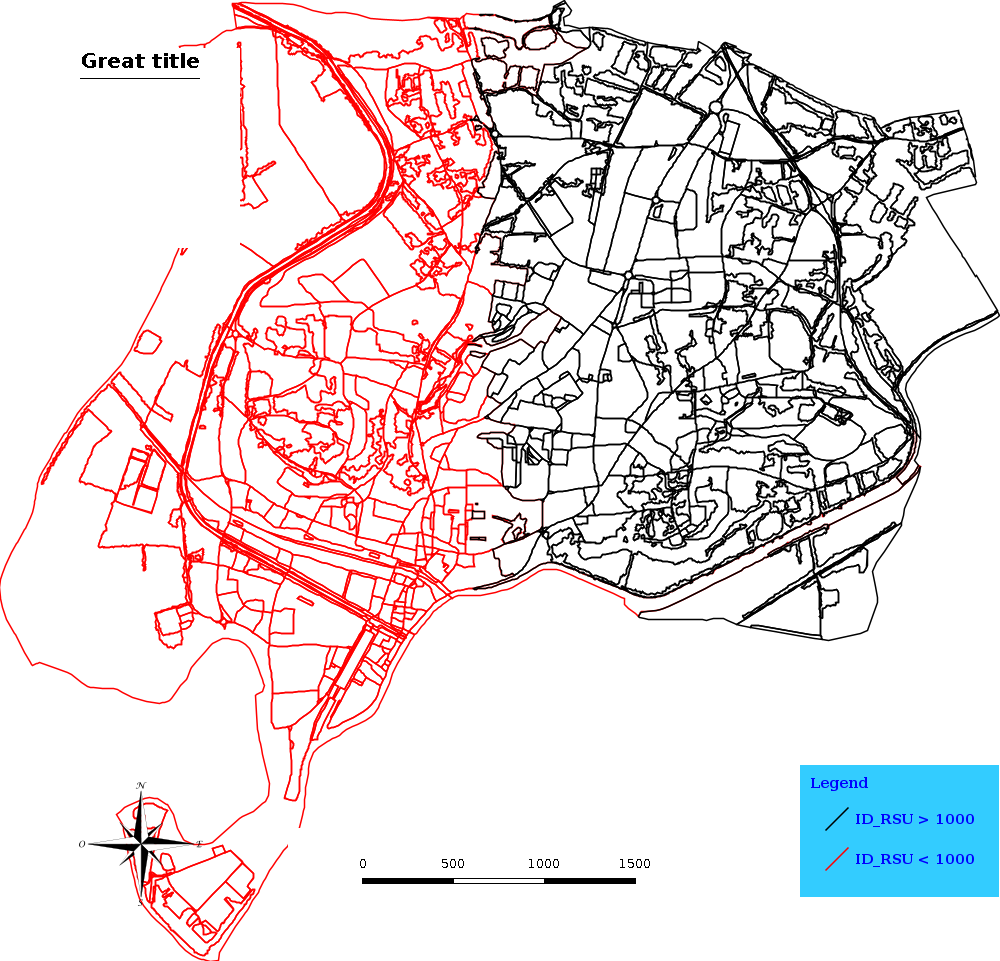
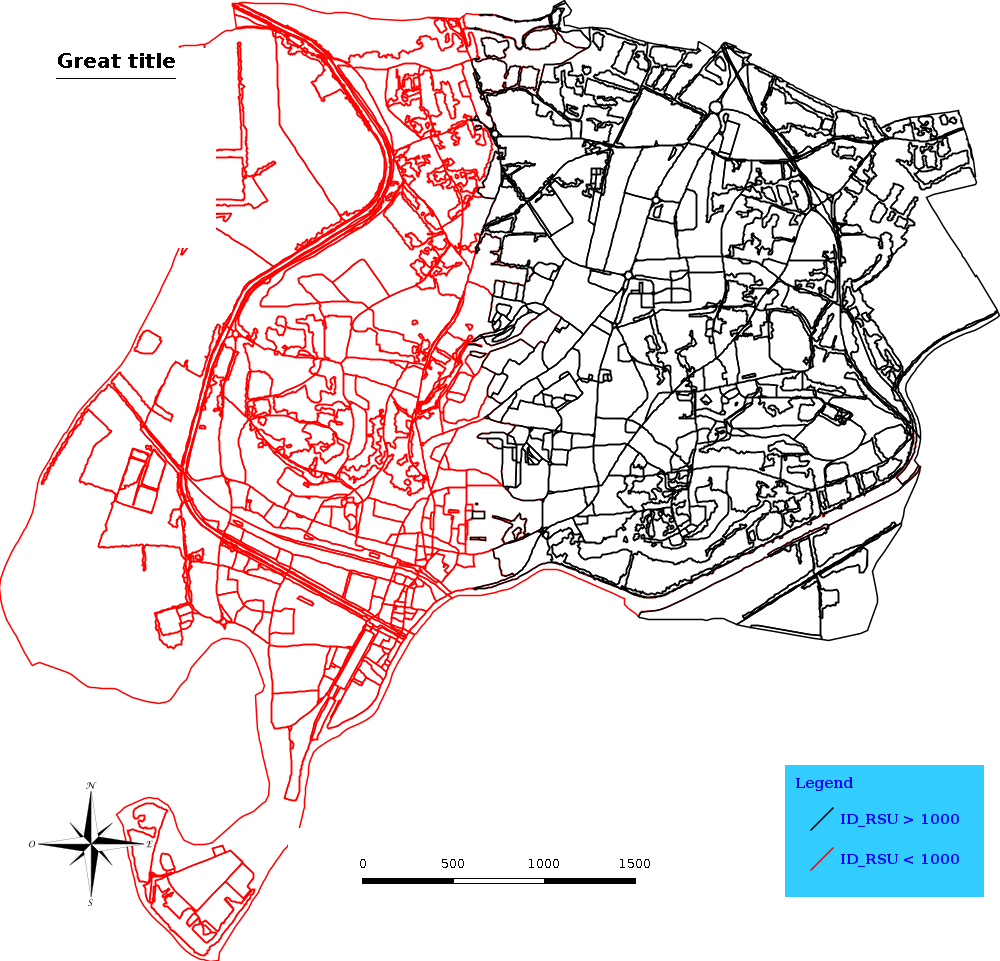
Add transparency to the different decorations

diff --git a/src/main/java/org/legend/utils/LegendUtils.java b/src/main/java/org/legend/utils/LegendUtils.java
@@ -26,6 +26,7 @@ import org.geotools.renderer.lite.RendererUtilities;
 import org.geotools.styling.*;
 import org.geotools.styling.Stroke;
 import org.opengis.filter.FilterFactory2;
+import org.opengis.filter.expression.Expression;
 import org.opengis.util.InternationalString;
 
 import java.awt.Font;
@@ -152,15 +153,37 @@ public class LegendUtils {
         if(ftStyles[0].rules().get(0).toString().contains("if_then_else")) {
             StyleFactory styleFactory = CommonFactoryFinder.getStyleFactory();
             if (ftStyles[0].rules().get(0).symbolizers().get(0) instanceof LineSymbolizer) {
-                String s = String.valueOf(((LineSymbolizer) ftStyles[0].rules().get(0).symbolizers().get(0)).getStroke().getColor());
-                String[] colors = StringUtils.substringsBetween(s, "#", "]");
-                String variable = Arrays.toString(StringUtils.substringsBetween(s, "([", "],"));
-                String operator = StringUtils.substringBetween(s, "[", "(");
-                String variable2 = variable.replace(operator, "").replace("[([", "").replace("]", "");
-                String value = StringUtils.substringBetween(s, ", [", "])],");
+                System.out.println("ftStyles[0].rules().get(0).symbolizers().get(0) : " + ftStyles[0].rules().get(0).symbolizers().get(0));
+                Expression getWidth = ((LineSymbolizer) ftStyles[0].rules().get(0).symbolizers().get(0)).getStroke().getWidth();
+                String getColor = String.valueOf(((LineSymbolizer) ftStyles[0].rules().get(0).symbolizers().get(0)).getStroke().getColor());
+                String operator = null;
+                String variable2 = null;
+                String value = null;
+                List<String> widthList = null;
+                if(getWidth.toString().contains("if_then_else")){
+                    String width1 = StringUtils.substringBetween(String.valueOf(getWidth), ")], [", "], [");
+                    String width2 = StringUtils.substringsBetween(String.valueOf(getWidth), "], [", "])")[1];
+                    width2 = width2.replace(width1,"").replace("], [", "");
+                    widthList = new ArrayList<>();
+                    widthList.add(width1);
+                    widthList.add(width2);
+                    String variable = Arrays.toString(StringUtils.substringsBetween(String.valueOf(getWidth), "([", "],"));
+                    operator = StringUtils.substringBetween(String.valueOf(getWidth), "[", "(");
+                    variable2 = variable.replace(operator, "").replace("[([", "").replace("]", "");
+                    value = StringUtils.substringBetween(String.valueOf(getWidth), ", [", "])],");
+                }
+                String[] colors = null;
+                if(getColor.contains("if_then_else")){
+                    colors = StringUtils.substringsBetween(getColor, "#", "]");
+                    String variable = Arrays.toString(StringUtils.substringsBetween(getColor, "([", "],"));
+                    operator = StringUtils.substringBetween(getColor, "[", "(");
+                    variable2 = variable.replace(operator, "").replace("[([", "").replace("]", "");
+                    value = StringUtils.substringBetween(getColor, ", [", "])],");
+                }
                 FilterFactory2 filterFactory2 = CommonFactoryFinder.getFilterFactory2();
                 float LINE_WIDTH = 1.0f;
                 List<String> operatorList = new ArrayList<>();
+                assert operator != null;
                 if (operator.equals("greaterThan")) {
                     operatorList.add(">");
                     operatorList.add("<");
@@ -171,7 +194,20 @@ public class LegendUtils {
                 }
                 for (int i = 0; i < 2; i++) {
                     Rule rule = styleFactory.createRule();
-                    Stroke stroke = styleFactory.createStroke(filterFactory2.literal("#" + colors[i]), filterFactory2.literal(LINE_WIDTH));
+                    Stroke stroke;
+                    if(getColor.contains("if_then_else")) {
+                        assert colors != null;
+                        stroke = styleFactory.createStroke(filterFactory2.literal("#" + colors[i]), filterFactory2.literal(LINE_WIDTH));
+                    }
+                    else{
+                        if(getWidth.toString().contains("if_then_else")){
+                            assert widthList != null;
+                            stroke = styleFactory.createStroke(filterFactory2.literal(getColor), filterFactory2.literal(widthList.get(i)));
+                        }
+                        else {
+                            stroke = styleFactory.createStroke(filterFactory2.literal(getColor), filterFactory2.literal(LINE_WIDTH));
+                        }
+                    }
                     Symbolizer symbolizer = styleFactory.createLineSymbolizer(stroke, null);
                     rule.symbolizers().add(symbolizer);
                     rule.setName(variable2 + " " + operatorList.get(i) + " " + value);

diff --git a/src/main/java/org/legend/model/Title.java b/src/main/java/org/legend/model/Title.java
@@ -27,16 +27,18 @@ public class Title {
     }
 
     public BufferedImage paintTitle(){
-        BufferedImage titleBufferedImage = new BufferedImage(200, 200, BufferedImage.TYPE_INT_RGB);
+        BufferedImage titleBufferedImage = new BufferedImage(200, 200, BufferedImage.TYPE_INT_ARGB);
         Graphics2D graph2d = titleBufferedImage.createGraphics();
-        graph2d.setColor(Color.WHITE);
+        graph2d.setComposite(AlphaComposite.Clear);
         graph2d.fillRect(0, 0, 200, 200);
+        graph2d.setComposite(AlphaComposite.Src);
         graph2d.setPaint(titleColor);
         graph2d.setFont(new Font(titleFontName, titleFont, titleSize));
+        graph2d.setRenderingHint(RenderingHints.KEY_ANTIALIASING, RenderingHints.VALUE_ANTIALIAS_ON);
         int titleWidth = graph2d.getFontMetrics().stringWidth(title);
-        graph2d.drawString(title, titleBufferedImage.getWidth()/2 - titleWidth/2 , 20);
+        graph2d.drawString(title, titleBufferedImage.getWidth()/3 - titleWidth/2 , 20);
         if(underlined){
-            graph2d.draw( new Line2D.Double( (double) titleBufferedImage.getWidth()/2 - (double) titleWidth/2, 30, (double) titleBufferedImage.getWidth()/2 + (double) titleWidth/2, 30 ) );
+            graph2d.draw( new Line2D.Double( (double) titleBufferedImage.getWidth()/3 - (double) titleWidth/2, 30, (double) titleBufferedImage.getWidth()/3 + (double) titleWidth/2, 30 ) );
         }
         return titleBufferedImage;
     }
@@ -51,7 +53,7 @@ public class Title {
                 break;
             case "bottomLeft":
                 positionY = imgHeight - imgHeight/5;
-                positionX = imgWidth/5 - scaleBufferedImage.getWidth()/2;
+                positionX = imgWidth/60;
                 break;
             case "bottomRight":
                 positionY = imgHeight - imgHeight/5;
@@ -63,7 +65,7 @@ public class Title {
                 break;
             case "topLeft":
                 positionY = imgHeight/20;
-                positionX = imgWidth/25;
+                positionX = imgWidth/60;
                 break;
             case "topRight":
                 positionY = imgHeight/20;

diff --git a/src/test/java/org/legend/imageBuilder/BufferedImageLegendGraphicBuilderTest.java b/src/test/java/org/legend/imageBuilder/BufferedImageLegendGraphicBuilderTest.java
@@ -224,7 +224,8 @@ public class BufferedImageLegendGraphicBuilderTest extends TestCase {
 
         /**** to print the legend in a png file : ***/
         //FeatureLayer layer = LayerUtils.buildLayer("/home/adrien/data/geoserver/bdtopo_v2_Redon/building.geojson","data/sld/pop_grid_intervals.sld");
-        FeatureLayer layer = LayerUtils.buildLayer("/home/adrien/data/geoserver/bdtopo_v2_Redon/rsu_indicators.geojson","data/sld/rsu_indicators_filter_color_byid_EDIT.sld");
+        //FeatureLayer layer = LayerUtils.buildLayer("/home/adrien/data/geoserver/bdtopo_v2_Redon/rsu_indicators.geojson","data/sld/rsu_indicators_filter_color_byid.sld");
+        FeatureLayer layer = LayerUtils.buildLayer("/home/adrien/data/geoserver/bdtopo_v2_Redon/rsu_indicators.geojson","data/sld/rsu_indicators_linesize_byid.sld");
         List<FeatureLayer> layerList = new ArrayList<>();
         layerList.add(layer);
 
@@ -283,7 +284,7 @@ public class BufferedImageLegendGraphicBuilderTest extends TestCase {
         // paint the title
         Title title = new Title("Great title", Color.black, Font.BOLD, 20,"default", true);
         BufferedImage titleBufferedImage = title.paintTitle();
-        title.setPosition("topLeft", image, titleBufferedImage);
+        title.setPosition("0:10", image, titleBufferedImage);
         g.drawImage(titleBufferedImage, title.getPositionX(), title.getPositionY(), null);
 
         // Generate the compass image
@@ -303,7 +304,8 @@ public class BufferedImageLegendGraphicBuilderTest extends TestCase {
         // Save as new image
         //ImageIO.write(combined, "PNG", new File("data/legend/building_urban_typo_mapAndlegend.png"));
         //ImageIO.write(combined, "PNG", new File("data/legend/building_mapAndlegend.png"));
-        ImageIO.write(combined, "PNG", new File("data/legend/rsu_indicators_mapAndlegend.png"));
+        //ImageIO.write(combined, "PNG", new File("data/legend/rsu_indicators_mapAndlegend.png"));
+        ImageIO.write(combined, "PNG", new File("data/legend/rsu_indicators_lineSize_mapAndlegend.png"));
     }
 
 }

diff --git a/src/main/java/org/legend/model/Scale.java b/src/main/java/org/legend/model/Scale.java
@@ -49,13 +49,12 @@ public class Scale {
     public BufferedImage paintMapScale(String bars){
         double pixelScaleFor500m = 500 * imageWidth / worldWidth;
         double pixelScaleFor1000m = 1000 * imageWidth / worldWidth;
-        BufferedImage scaleBufferedImage = new BufferedImage(425, 400, BufferedImage.TYPE_INT_RGB);
+        BufferedImage scaleBufferedImage = new BufferedImage(425, 400, BufferedImage.TYPE_INT_ARGB);
         Graphics2D graph2d = scaleBufferedImage.createGraphics();
-        graph2d.setColor(Color.WHITE);
+        graph2d.setComposite(AlphaComposite.Clear);
         graph2d.fillRect(0, 0, 425, 400);
+        graph2d.setComposite(AlphaComposite.Src);
         graph2d.setPaint(Color.BLACK);
-        //graph2d.draw(new Line2D.Double(0, 0, 0, 400));
-        //graph2d.draw(new Line2D.Double(425, 0, 425, 400));
 
         double marge = (scaleBufferedImage.getWidth()-pixelScaleFor500m-pixelScaleFor1000m)/2;
 

diff --git a/src/main/java/org/legend/model/Compass.java b/src/main/java/org/legend/model/Compass.java
@@ -104,7 +104,7 @@ public class Compass {
                 break;
             case "bottomLeft":
                 positionY = imgHeight - imgHeight/5;
-                positionX = imgWidth/15;
+                positionX = imgWidth/60;
                 break;
             case "bottomRight":
                 positionY = imgHeight - imgHeight/5;
@@ -116,7 +116,7 @@ public class Compass {
                 break;
             case "topLeft":
                 positionY = imgHeight/20;
-                positionX = imgWidth/25;
+                positionX = imgWidth/60;
                 break;
             case "topRight":
                 positionY = imgHeight/20;

diff --git a/src/main/java/org/legend/model/Legend.java b/src/main/java/org/legend/model/Legend.java
@@ -21,7 +21,7 @@ public class Legend {
                 break;
             case "bottomRight":
                 positionY = imgHeight - legendBufferedImage.getHeight() - imgHeight/15;
-                positionX = imgWidth - imgWidth/5;
+                positionX = imgWidth - legendBufferedImage.getWidth() - imgWidth/60;
                 break;
             case "top":
                 positionY = legendBufferedImage.getHeight()/2;
